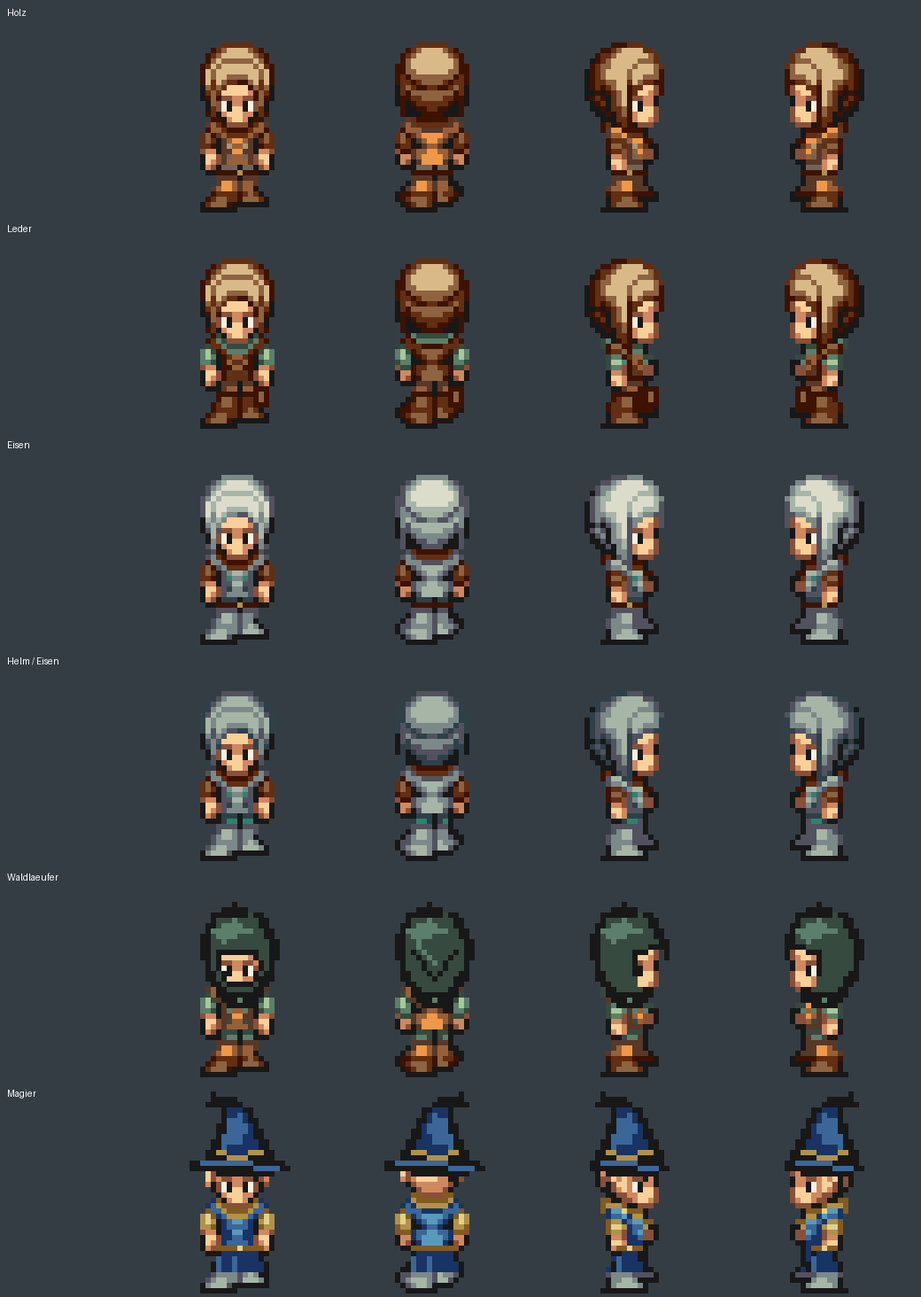
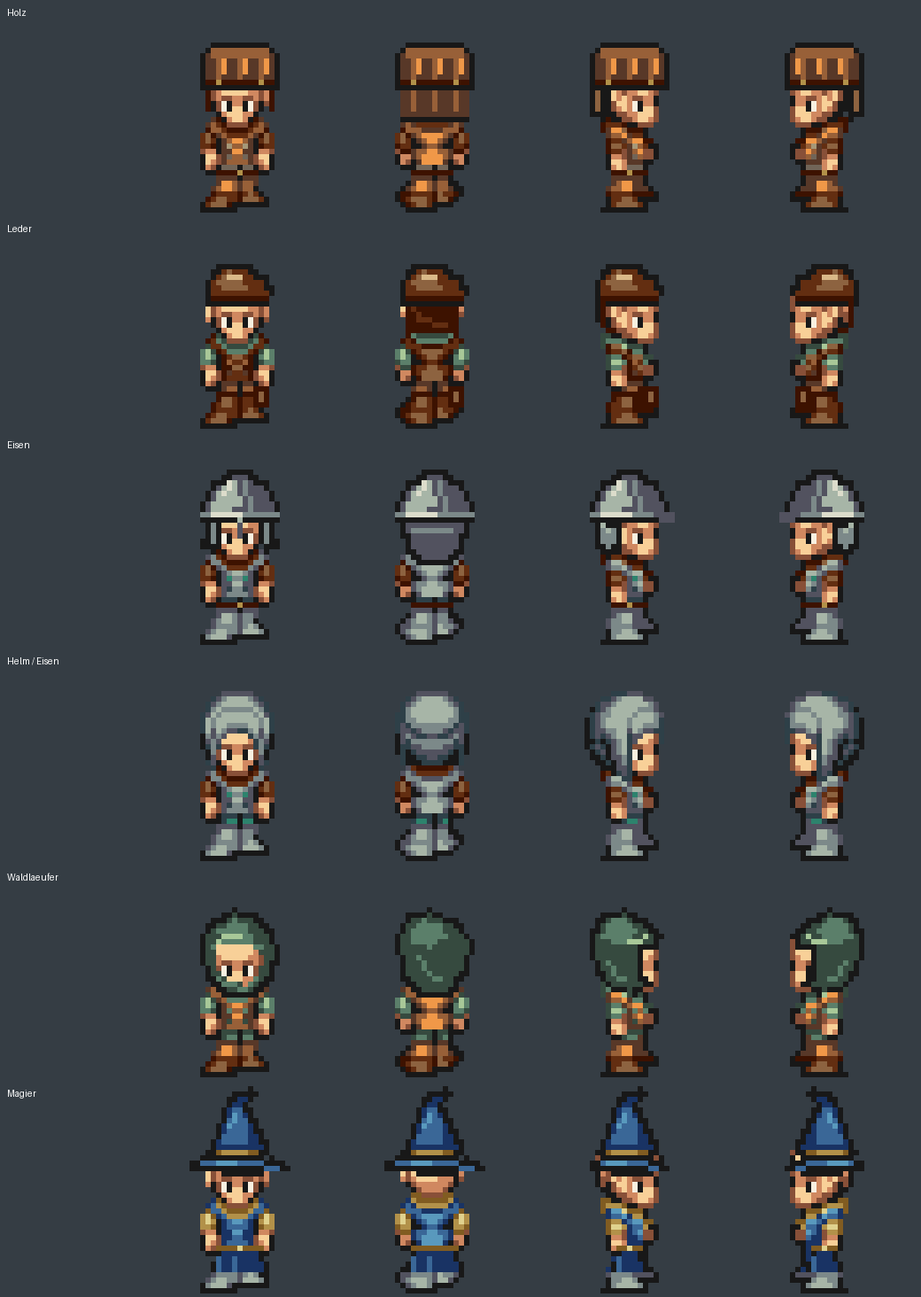
Redraw hood, wizard hat and material helmets with distinct native silhouettes

diff --git a/scripts/native_headgear.py b/scripts/native_headgear.py
@@ -1,0 +1,96 @@
+"""New native-grid headgear silhouettes. Coordinates follow each original head frame."""
+from PIL import Image,ImageDraw
+O=(24,24,24,255)
+GREEN=[(54,74,63,255),(91,127,106,255),(168,200,152,255)]
+BLUE=[(25,51,100,255),(58,103,151,255),(89,153,189,255)]
+STEEL=[(82,82,95,255),(124,137,137,255),(167,181,167,255),(220,220,203,255)]
+WOOD=[(88,56,40,255),(152,96,56,255),(240,152,72,255)]
+LEATHER=[(61,18,0,255),(99,46,17,255),(141,99,64,255),(218,185,136,255)]
+BRASS=[(129,92,33,255),(178,145,73,255),(224,210,142,255)]
+
+def headgear(name,cap,facing):
+ box=cap.getbbox();cx=round((box[0]+box[2]-1)/2);top=box[1]
+ im=Image.new('RGBA',(64,64));d=ImageDraw.Draw(im)
+ # Work in a local head basis; profiles are drawn separately then mirrored.
+ def poly(pts,color):d.polygon([(cx+x,top+y) for x,y in pts],fill=color)
+ def line(pts,color):d.line([(cx+x,top+y) for x,y in pts],fill=color)
+ def rect(x0,y0,x1,y1,color):d.rectangle((cx+x0,top+y0,cx+x1,top+y1),fill=color)
+ profile=facing in (2,3)
+ if name=='hood':
+  if profile:
+   poly([(-7,3),(-5,0),(-1,-1),(3,1),(6,4),(5,6),(2,7),(2,11),(4,13),(1,15),(-3,14),(-6,11),(-7,7)],O)
+   poly([(-6,4),(-4,1),(-1,0),(2,2),(4,4),(4,5),(1,6),(1,11),(2,13),(0,14),(-3,13),(-5,10),(-6,7)],GREEN[0])
+   poly([(-5,4),(-3,1),(-1,1),(1,3),(0,5),(-3,5)],GREEN[1])
+   line([(-4,9),(-3,11),(-1,12)],GREEN[1]);line([(0,5),(2,5),(3,4)],GREEN[2])
+  elif facing==1:
+   poly([(-7,4),(-5,0),(-1,-1),(4,1),(7,5),(6,11),(3,15),(-3,15),(-6,12)],O)
+   poly([(-6,4),(-4,1),(-1,0),(3,2),(6,5),(5,10),(2,14),(-2,14),(-5,11)],GREEN[0])
+   poly([(-4,3),(-2,1),(1,2),(2,4),(-1,6),(-4,5)],GREEN[1]);line([(-3,8),(-1,11),(1,12)],GREEN[1])
+  else:
+   poly([(-7,4),(-5,1),(-1,-1),(3,0),(6,3),(7,7),(6,12),(3,15),(-3,15),(-6,12),(-7,8)],O)
+   poly([(-6,4),(-4,2),(-1,0),(2,1),(5,4),(6,7),(5,11),(2,14),(-2,14),(-5,11),(-6,8)],GREEN[0])
+   poly([(-4,3),(-1,1),(1,2),(2,4),(-2,4)],GREEN[1])
+   # Wide face opening follows the original brow/cheeks, without a circular ring.
+   poly([(-4,6),(3,6),(4,8),(3,12),(1,13),(-2,12),(-4,10)],(0,0,0,0))
+   line([(-5,6),(-3,5),(2,5),(4,6)],GREEN[1]);line([(-4,5),(-2,4),(0,4)],GREEN[2])
+   line([(-4,12),(-2,13),(1,14),(3,12)],GREEN[1])
+ elif name=='mgHt':
+  # Tapered cloth cone; short folded tip, no horizontal black antenna.
+  poly([(-6,4),(-4,0),(-3,-4),(-1,-7),(2,-8),(3,-7),(1,-5),(3,-2),(5,3),(6,5)],O)
+  poly([(-4,3),(-3,0),(-2,-4),(0,-6),(1,-6),(0,-4),(2,-1),(4,3)],BLUE[0])
+  poly([(-3,2),(-2,-1),(-1,-4),(0,-4),(1,-1),(1,2)],BLUE[1])
+  line([(-2,-1),(-1,-3)],BLUE[2]);line([(-4,4),(3,4)],BRASS[0]);line([(-3,4),(1,4)],BRASS[1])
+  width=7 if profile else 9
+  poly([(-width,6),(-width+2,5),(-4,5),(4,5),(width-1,6),(width,7),(4,8),(-3,8),(-width,7)],O)
+  line([(-width+2,6),(-3,6),(3,6),(width-2,7)],BLUE[1]);line([(-4,6),(-1,6)],BLUE[2])
+ elif name=='irHl':
+  # Ridged steel bowl, projecting brow and separate cheek plates.
+  poly([(-7,4),(-5,0),(-2,-2),(2,-2),(5,0),(7,4),(7,7),(-7,7)],O)
+  poly([(-6,4),(-4,1),(-1,-1),(1,-1),(4,1),(6,4),(6,6),(-6,6)],STEEL[0])
+  poly([(-5,4),(-3,1),(-1,0),(0,4),(-2,5),(-5,5)],STEEL[2]);line([(-3,2),(-2,0)],STEEL[3])
+  line([(1,0),(2,5)],STEEL[1]);line([(-7,6),(7,6)],STEEL[1]);line([(-5,6),(0,6)],STEEL[3])
+  if facing==1:
+   poly([(-6,8),(6,8),(5,13),(3,15),(-3,15),(-5,13)],O)
+   poly([(-5,8),(5,8),(4,12),(2,14),(-2,14),(-4,12)],STEEL[0]);line([(-4,9),(3,9)],STEEL[1])
+  elif profile:
+   poly([(-6,7),(-2,8),(-2,12),(-4,14),(-6,12)],O)
+   poly([(-5,8),(-3,9),(-3,11),(-4,12),(-5,11)],STEEL[1]);line([(-5,8),(-4,9)],STEEL[2])
+   # Short forward brim gives a markedly different silhouette from the wood cap.
+   line([(5,6),(8,6),(8,7),(6,7)],STEEL[0])
+  else:
+   for sign in (-1,1):
+    poly([(sign*6,8),(sign*4,8),(sign*4,11),(sign*5,13),(sign*7,12)],O)
+    line([(sign*5,8),(sign*5,11)],STEEL[1])
+   line([(0,7),(0,10)],STEEL[0]);d.point((cx,top+7),fill=STEEL[2])
+ elif name=='wdHl':
+  # Flat plank crown, visible vertical grain, leather brow strap and open face.
+  poly([(-7,1),(-5,-1),(5,-1),(7,1),(7,7),(-7,7)],O)
+  rect(-6,1,6,5,WOOD[0]);rect(-5,0,5,1,WOOD[1])
+  for x in (-4,0,4):
+   line([(x,1),(x,5)],WOOD[1]);line([(x+1,2),(x+1,4)],WOOD[2])
+  line([(-6,6),(6,6)],LEATHER[0]);d.point((cx-4,top+6),fill=BRASS[1]);d.point((cx+4,top+6),fill=BRASS[1])
+  if facing==1:
+   rect(-6,8,6,12,WOOD[0]);line([(-6,13),(6,13)],O)
+   for x in (-4,0,4):line([(x,8),(x,11)],WOOD[1])
+  elif profile:
+   poly([(-7,7),(-4,7),(-4,11),(-5,13),(-7,12)],O);line([(-6,8),(-6,11)],LEATHER[2])
+  else:
+   line([(-6,8),(-6,11)],LEATHER[0]);line([(6,8),(6,11)],LEATHER[0])
+ elif name=='leHl':
+  # Short leather coif with open ears: distinct from the new wood/steel crowns.
+  poly([(-6,3),(-4,0),(2,0),(5,2),(6,5),(5,7),(-6,7)],O)
+  poly([(-5,3),(-3,1),(1,1),(4,3),(5,5),(4,6),(-5,6)],LEATHER[1])
+  poly([(-4,3),(-2,1),(0,2),(1,4),(-3,4)],LEATHER[2]);line([(-2,2),(0,2)],LEATHER[3])
+  line([(-5,6),(5,6)],LEATHER[0])
+  if facing==1:
+   rect(-5,8,4,12,LEATHER[0]);line([(-4,8),(-3,10),(2,11)],LEATHER[1])
+  elif profile:line([(-5,7),(-5,11),(-3,12)],LEATHER[0])
+ if facing==3:
+  # Mirror about the exact source head center, not the 64px cell center.
+  mirrored=Image.new('RGBA',(64,64))
+  for y in range(64):
+   for x in range(64):
+    xx=2*cx-x
+    if 0<=xx<64:mirrored.putpixel((xx,y),im.getpixel((x,y)))
+  im=mirrored
+ return im

diff --git a/scripts/build_class_sprites.py b/scripts/build_class_sprites.py
@@ -6,6 +6,7 @@ from pathlib import Path
 from PIL import Image,ImageDraw
 from collections import Counter
 import json,sys
+from native_headgear import headgear
 ROOT=Path(__file__).resolve().parents[1];A=ROOT/'app/src/main/assets';C=A/'sprites/ManaSeedCharacter'
 GREEN=[(24,24,24),(54,74,63),(91,127,106),(168,200,152)]
 CLOTHBLUE=[(24,24,24),(25,51,100),(58,103,151),(89,153,189)]
@@ -87,34 +88,8 @@ for page in ('p1','pONE2','pONE3','pBOW','pCAST'):
      if facing<2:d.line([(cx-1,waist+1),(cx-1+sway,hem-2)],fill=opaque(CLOTHBLUE[2]))
      d.line((cx-half+1,waist-1,cx+half-1,waist-1),fill=opaque(TRIM[0]))
      if facing!=1:d.point((cx,waist-1),fill=opaque(TRIM[2]))
-   # A sewn cloth hood: broad fabric folds, face cutout and neck closure.
-   # Its silhouette is independent of every hairstyle beneath it.
-   q=poses['hood'];d=ImageDraw.Draw(q);rx=max(7,(x1-x0)//2)
-   d.polygon([(cx-rx,y0+5),(cx-rx+2,y0),(cx-1,y0-2),(cx+rx-3,y0),(cx+rx,y0+5),(cx+rx-1,y0+12),(cx+3,y0+16),(cx-3,y0+16),(cx-rx+1,y0+12)],fill=opaque(GREEN[0]))
-   d.polygon([(cx-rx+2,y0+5),(cx-4,y0+1),(cx+2,y0),(cx+rx-2,y0+5),(cx+rx-2,y0+10),(cx+2,y0+14),(cx-3,y0+14),(cx-rx+2,y0+10)],fill=opaque(GREEN[1]))
-   d.polygon([(cx-5,y0+3),(cx-1,y0+1),(cx+2,y0+3),(cx-3,y0+5)],fill=opaque(GREEN[2]))
-   if facing==0:
-    opening=[(cx-4,y0+7),(cx+3,y0+7),(cx+4,y0+10),(cx+2,y0+13),(cx-2,y0+13),(cx-4,y0+10)]
-    d.polygon(opening,fill=(0,0,0,0));d.line(opening+[opening[0]],fill=opaque(GREEN[0]))
-   elif facing in (2,3):
-    signface=1 if facing==2 else -1
-    opening=[(cx+signface,y0+7),(cx+signface*(rx-1),y0+6),(cx+signface*rx,y0+12),(cx+signface*3,y0+14),(cx+signface,y0+11)]
-    d.polygon(opening,fill=(0,0,0,0));d.line([opening[-1],opening[0],opening[1]],fill=opaque(GREEN[0]))
-   else:
-    d.line([(cx-4,y0+7),(cx,y0+12),(cx+4,y0+7)],fill=opaque(GREEN[0]))
-    d.line([(cx-3,y0+6),(cx,y0+9)],fill=opaque(GREEN[2]))
-   d.polygon([(cx-3,y0+14),(cx,y0+16),(cx+3,y0+14),(cx+2,y0+17),(cx-2,y0+17)],fill=opaque(GREEN[0]))
-   d.point((cx,y0+16),fill=opaque(GREEN[2]))
-   # Compact bent crown, clustered cloth highlights and a foreshortened brim.
-   q=poses['mgHt'];d=ImageDraw.Draw(q);mirror=-1 if facing in (1,3) else 1
-   def hp(points):return [(cx+mirror*x,y0+y) for x,y in points]
-   d.polygon(hp([(-6,5),(-4,0),(-3,-4),(-6,-5),(-5,-7),(-1,-6),(2,-4),(4,0),(6,5)]),fill=opaque(CLOTHBLUE[0]))
-   d.polygon(hp([(-4,4),(-2,0),(-2,-4),(0,-4),(2,-1),(3,4)]),fill=opaque(CLOTHBLUE[1]))
-   d.polygon(hp([(-3,3),(-2,-2),(0,-3),(1,-1),(0,2)]),fill=opaque(CLOTHBLUE[2]))
-   d.line(hp([(-4,4),(0,5),(4,4)]),fill=opaque(TRIM[1]))
-   brim=7 if facing in (2,3) else 9
-   d.polygon([(cx-brim,y0+6),(cx-3,y0+5),(cx+brim-1,y0+6),(cx+brim,y0+7),(cx+3,y0+9),(cx-4,y0+8),(cx-brim,y0+7)],fill=opaque(CLOTHBLUE[0]))
-   d.line([(cx-brim+2,y0+6),(cx-2,y0+6),(cx+brim-2,y0+7)],fill=opaque(CLOTHBLUE[2]))
+   poses['hood']=headgear('hood',cap,facing)
+   poses['mgHt']=headgear('mgHt',cap,facing)
    # Short shoulder-mounted quiver sits behind the torso, away from the bow.
    q=poses['quvr'];d=ImageDraw.Draw(q)
    qx=cx+(-4 if facing==2 else 4 if facing==3 else 3);qy=y0+14

diff --git a/app/src/main/java/de/pixelabenteuer/game/MainActivity.java b/app/src/main/java/de/pixelabenteuer/game/MainActivity.java
@@ -1070,6 +1070,7 @@ public class MainActivity extends Activity {
    define("Wooden Armor","Common","Brust",0,1,1,0);
    define("Leather Armor","Uncommon","Brust",0,2,3,0);
    define("Iron Armor","Rare","Brust",0,6,8,0);
+   define("Wooden Helmet","Common","Kopf",0,1,0,0);
    define("Leather Helmet","Common","Kopf",0,1,1,0);
    define("Iron Helmet","Rare","Kopf",0,5,5,0);
    define("Wizard Hat","Super Rare","Kopf",4,2,8,0);
@@ -1103,7 +1104,7 @@ public class MainActivity extends Activity {
     while(pages.hasNext()){String page=pages.next();org.json.JSONArray cells=root.getJSONArray(page);int[] coords=new int[128];
      for(int i=0;i<64;i++){org.json.JSONArray point=cells.getJSONArray(i);coords[i*2]=point.getInt(0);coords[i*2+1]=point.getInt(1);}classGrips.put(page,coords);}
    }catch(Exception e){android.util.Log.e("PixelClasses","Missing hand attachment data",e);}
-   for(String name:new String[]{"Wooden Armor","Leather Armor","Iron Armor","Leather Helmet","Iron Helmet","Helm","Leather Boot","Iron Boot","Belt","Bag"}){
+   for(String name:new String[]{"Wooden Armor","Leather Armor","Iron Armor","Wooden Helmet","Leather Helmet","Iron Helmet","Helm","Leather Boot","Iron Boot","Belt","Bag"}){
     try(InputStream in=getAssets().open("equipment_items/"+name+".png")){itemImages.put(name,BitmapFactory.decodeStream(in));}catch(Exception e){android.util.Log.e("PixelEquipment","Missing "+name,e);}
    }
    Bitmap mageHat=itemImages.get("Magierhut");if(mageHat!=null)itemImages.put("Wizard Hat",mageHat);
@@ -1117,7 +1118,7 @@ public class MainActivity extends Activity {
    return pos>=0&&name.endsWith("]")?name.substring(0,pos):name;
   }
   void defineEquipmentVariants(){
-   String[] bases={"Wooden Sword","Iron Sword","Silver Sword","Golden Sword","Wooden Armor","Leather Armor","Iron Armor","Leather Helmet","Iron Helmet","Leather Boot","Iron Boot"};
+   String[] bases={"Wooden Sword","Iron Sword","Silver Sword","Golden Sword","Wooden Armor","Leather Armor","Iron Armor","Wooden Helmet","Leather Helmet","Iron Helmet","Leather Boot","Iron Boot"};
    String[] rarities={"Common","Uncommon","Rare","Super Rare","Legendär"};
    for(String base:bases){
     Item original=definitions.get(base);
@@ -1192,7 +1193,7 @@ public class MainActivity extends Activity {
   void ensureClassStock(){
    // Both new classes remain available in old saves without rerolling stock.
    if(smithStock.length>=2){smithStock[smithStock.length-2]="Jagdbogen";smithStock[smithStock.length-1]="Magierstab";}
-   sellerStock=new String[]{"Apple","Green Apple","Ham","Cheese","Mushroom","Healthpotion","Healthpotion large","Healpotion med","Waldlaeuferwams","Waldlaeuferkapuze","Magierrobe","Magierhut"};
+   sellerStock=new String[]{"Apple","Green Apple","Ham","Cheese","Mushroom","Healthpotion","Healthpotion large","Healpotion med","Waldlaeuferwams","Waldlaeuferkapuze","Magierrobe","Magierhut","Wooden Helmet"};
    if(shopStock.length>=2){shopStock[shopStock.length-2]="Jagdbogen";shopStock[shopStock.length-1]="Magierstab";}
   }
   String[] activeStock(){return activeMerchant==1?smithStock:activeMerchant==2?sellerStock:shopStock;}

diff --git a/scripts/build_equipment_materials.py b/scripts/build_equipment_materials.py
@@ -2,6 +2,7 @@
 from pathlib import Path
 from PIL import Image,ImageDraw
 import json
+from native_headgear import headgear
 ROOT=Path(__file__).resolve().parents[1];A=ROOT/'app/src/main/assets';C=A/'sprites/ManaSeedCharacter'
 OUTLINE=(24,24,24)
 METAL=[(82,82,95),(124,137,137),(167,181,167),(220,220,203)]
@@ -12,8 +13,8 @@ MATERIALS={
  'wdAr':[OUTLINE,*WOOD,*LEATHER[:3],(113,101,88),(166,152,120)],
  'ltAr':[OUTLINE,*LEATHER[:3],(54,74,63),(91,127,106),(168,200,152),(88,56,40),(152,96,56)],
  'irAr':[OUTLINE,*METAL[:3],*LEATHER[:3],(46,64,72),(45,131,109)]}
-HATS={'leHl':LEATHER,'irHl':METAL,'stHl':[(46,64,72),(82,82,95),(124,137,137),(167,181,167)]}
-ITEMS={'Wooden Armor':('1out','wdAr'),'Leather Armor':('1out','ltAr'),'Iron Armor':('1out','irAr'),'Leather Helmet':('5hat','leHl'),'Iron Helmet':('5hat','irHl'),'Helm':('5hat','stHl'),'Leather Boot':('8feet','leBt'),'Iron Boot':('8feet','irBt'),'Belt':('9belt','belt'),'Bag':('9belt','bag')}
+HATS={'wdHl':WOOD,'leHl':LEATHER,'irHl':METAL,'stHl':[(46,64,72),(82,82,95),(124,137,137),(167,181,167)]}
+ITEMS={'Wooden Helmet':('5hat','wdHl'),'Wooden Armor':('1out','wdAr'),'Leather Armor':('1out','ltAr'),'Iron Armor':('1out','irAr'),'Leather Helmet':('5hat','leHl'),'Iron Helmet':('5hat','irHl'),'Helm':('5hat','stHl'),'Leather Boot':('8feet','leBt'),'Iron Boot':('8feet','irBt'),'Belt':('9belt','belt'),'Bag':('9belt','bag')}
 def path(page,layer,name):return C/f'char_a_{page}'/('' if layer=='0bas' else layer)/f'char_a_{page}_{layer}_{name}_v01.png'
 def read(page,layer,name):return Image.open(path(page,layer,name)).convert('RGBA')
 def frame(im,r,c):return im.crop((c*64,r*64,c*64+64,r*64+64))
@@ -37,7 +38,8 @@ for page in ('p1','pONE2','pONE3','pBOW','pCAST'):
     sheets[name].alpha_composite(q,(col*64,row*64))
    for name,ramp in HATS.items():
     src=[(107,50,53),(169,73,76),(234,114,104),(252,176,153)]
-    q=recolor(helmet,dict(zip(src,ramp)));sheets[name].alpha_composite(q,(col*64,row*64))
+    q=headgear(name,head if head.getbbox() else frame(read('pONE2','4har','bob1'),row%4,0),row%4) if name in ('wdHl','leHl','irHl') else recolor(helmet,dict(zip(src,ramp)))
+    sheets[name].alpha_composite(q,(col*64,row*64))
    if bb:
     foot=bb[3]
     for name,ramp in [('leBt',LEATHER),('irBt',METAL)]:
@@ -65,4 +67,4 @@ icons=A/'equipment_items';icons.mkdir(exist_ok=True)
 for item,(layer,name) in ITEMS.items():
  im=frame(read('p1',layer,name),0,0);im=im.crop(im.getbbox());scale=min(2,28//max(im.size));im=im.resize((im.width*scale,im.height*scale),Image.Resampling.NEAREST)
  icon=Image.new('RGBA',(32,32));icon.alpha_composite(im,((32-im.width)//2,(32-im.height)//2));icon.save(icons/f'{item}.png')
-print('50 native equipment sheets and 10 matching icons built from original animation masks and material colors.')
+print('55 native equipment sheets and 11 matching icons built from original animation masks and material colors.')

diff --git a/scripts/verify_headgear.py b/scripts/verify_headgear.py
@@ -1,0 +1,35 @@
+"""Check the redesigned silhouettes, native palettes and per-pose head anchoring."""
+from PIL import Image
+from pathlib import Path
+from native_headgear import headgear
+ROOT=Path(__file__).resolve().parents[1];C=ROOT/'app/src/main/assets/sprites/ManaSeedCharacter'
+def read(page,layer,name):return Image.open(C/f'char_a_{page}'/layer/f'char_a_{page}_{layer}_{name}_v01.png').convert('RGBA')
+def frame(im,r,c):return im.crop((c*64,r*64,c*64+64,r*64+64))
+allowed=set()
+for n in ['fstr','pfpn','boxr']:
+ for v in range(1,2 if n=='boxr' else 6):
+  p=C/'char_a_p1/1out'/f'char_a_p1_1out_{n}_v{v:02}.png';allowed.update(q[:3] for q in Image.open(p).convert('RGBA').get_flattened_data() if q[3])
+count=0
+for page in ('p1','pONE2','pONE3','pBOW','pCAST'):
+ source='pONE2' if page in ('pBOW','pCAST') else page;heads=read(source,'4har','bob1');fallback=read('pONE2','4har','bob1')
+ sheets={n:read(page,'5hat',n) for n in ['wdHl','leHl','irHl','hood','mgHt']}
+ for r in range(8):
+  for c in range(8):
+   cap=frame(heads,r%4 if source!=page else r,0 if source!=page else c)
+   if not cap.getbbox():cap=frame(fallback,r%4,0)
+   hb=cap.getbbox();cx=round((hb[0]+hb[2]-1)/2)
+   masks={}
+   for n,im in sheets.items():
+    actual=frame(im,r,c);b=actual.getbbox();assert b and 0<b[0]<b[2]<64 and 0<b[1]<b[3]<64,(page,n,r,c,'clipped edge')
+    assert hb[1]-8<=b[1]<=hb[1]+1 and b[3]<=hb[1]+17,(page,n,r,c,'head anchor moved')
+    assert b[0]>=cx-10 and b[2]<=cx+11,(page,n,r,c,'oversized')
+    assert actual.tobytes()==headgear(n,cap,r%4).tobytes(),(page,n,r,c,'wrong head frame')
+    assert set(actual.getchannel('A').get_flattened_data())<={0,255}
+    assert {px[:3] for px in actual.get_flattened_data() if px[3]}<=allowed,(page,n,'foreign palette')
+    masks[n]=set((x,y) for y in range(64) for x in range(64) if actual.getpixel((x,y))[3]);count+=1
+   # Differentiation must be in silhouette, not just RGB recoloring.
+   assert len({frozenset(m) for m in masks.values()})==5,(page,r,c,'recolored duplicate')
+   a,b=masks['wdHl'],masks['irHl'];assert len(a&b)/len(a|b)<.85,(page,r,c,'wood/iron too similar')
+for n in ('Wooden Helmet','Leather Helmet','Iron Helmet'):
+ im=Image.open(ROOT/'app/src/main/assets/equipment_items'/f'{n}.png');assert im.size==(32,32)
+print(f'{count} rebuilt headgear frames: five unique silhouettes, exact head anchors, original colors and no frame-edge clipping.')

diff --git a/scripts/verify_equipment_materials.py b/scripts/verify_equipment_materials.py
@@ -10,13 +10,13 @@ for layer,n in [('1out','fstr'),('1out','pfpn'),('1out','boxr')]:
  for v in range(1,2 if n=='boxr' else 6):allowed.update(px[:3] for px in read('p1',layer,n,v).get_flattened_data() if px[3])
 count=0
 for p in ('p1','pONE2','pONE3','pBOW','pCAST'):
- for layer,names in [('1out',['wdAr','ltAr','irAr']),('5hat',['leHl','irHl','stHl']),('8feet',['leBt','irBt']),('9belt',['belt','bag'])]:
+ for layer,names in [('1out',['wdAr','ltAr','irAr']),('5hat',['wdHl','leHl','irHl','stHl']),('8feet',['leBt','irBt']),('9belt',['belt','bag'])]:
   for n in names:
    im=read(p,layer,n);assert im.size==(512,512)
    assert set(im.getchannel('A').get_flattened_data())<={0,255}
    colors={px[:3] for px in im.get_flattened_data() if px[3]};assert colors<=allowed,(p,n,colors-allowed)
    source='pONE2' if p in ('pBOW','pCAST') else p
-   if layer in ('1out','5hat'):
+   if layer=='1out' or (layer=='5hat' and n=='stHl'):
     original=read(source,layer,'fstr' if layer=='1out' else 'pfht')
     for r in range(8):
      for c in range(8):
@@ -36,9 +36,9 @@ for p in ('p1','pONE2','pONE3','pBOW','pCAST'):
       if box:assert b and box[1]>=b[3]-4 and box[3]<=b[3],(p,n,r,c,'boot moved away from feet')
  # Distinct equipped materials, all directions, not merely distinct inventory icons.
  for row in range(4):
-  for layer,names in [('1out',['wdAr','ltAr','irAr']),('5hat',['leHl','irHl','stHl'])]:
-   assert len({cell(read(p,layer,n),row,0).tobytes() for n in names})==3
+  for layer,names in [('1out',['wdAr','ltAr','irAr']),('5hat',['wdHl','leHl','irHl','stHl'])]:
+   assert len({cell(read(p,layer,n),row,0).tobytes() for n in names})==len(names)
 for icon in (ROOT/'app/src/main/assets/equipment_items').glob('*.png'):
  im=Image.open(icon).convert('RGBA');assert im.size==(32,32) and im.getbbox()
  assert {px[:3] for px in im.get_flattened_data() if px[3]}<=allowed
-print(f'{count} chest/helmet poses: native contours, exact equipment colors, material separation; foot layers and 10 icons passed.')
+print(f'{count} original-contour chest/helmet poses: native contours, exact equipment colors, material separation; foot layers and 11 icons passed.')

diff --git a/tests/CharacterEquipmentTest.java b/tests/CharacterEquipmentTest.java
@@ -10,7 +10,7 @@ public final class CharacterEquipmentTest {
   return ImageIO.read(p.toFile());
  }
  public static void main(String[] args)throws Exception{
-  String[][] cases={{"Wooden Armor","1out","wdAr"},{"Leather Armor","1out","ltAr"},{"Iron Armor","1out","irAr"},{"Leather Helmet","5hat","leHl"},{"Iron Helmet","5hat","irHl"},{"Helm","5hat","stHl"},{"Wizard Hat","5hat","mgHt"},{"Magierhut","5hat","mgHt"},{"Waldlaeuferkapuze","5hat","hood"},{"Magierrobe","1out","robe"},{"Waldlaeuferwams","1out","rngr"},{"Leather Boot","8feet","leBt"},{"Iron Boot","8feet","irBt"},{"Belt","9belt","belt"},{"Bag","9belt","bag"}};
+  String[][] cases={{"Wooden Helmet","5hat","wdHl"},{"Wooden Armor","1out","wdAr"},{"Leather Armor","1out","ltAr"},{"Iron Armor","1out","irAr"},{"Leather Helmet","5hat","leHl"},{"Iron Helmet","5hat","irHl"},{"Helm","5hat","stHl"},{"Wizard Hat","5hat","mgHt"},{"Magierhut","5hat","mgHt"},{"Waldlaeuferkapuze","5hat","hood"},{"Magierrobe","1out","robe"},{"Waldlaeuferwams","1out","rngr"},{"Leather Boot","8feet","leBt"},{"Iron Boot","8feet","irBt"},{"Belt","9belt","belt"},{"Bag","9belt","bag"}};
   int resolved=0;
   for(String[] item:cases)for(String suffix:new String[]{""," [Rare]"," [Legendär] {42}"}){
    String raw=item[0]+suffix,actual=item[1].equals("1out")?CharacterEquipment.outfit(raw,0):item[1].equals("5hat")?CharacterEquipment.hat(raw):item[1].equals("8feet")?CharacterEquipment.boots(raw):CharacterEquipment.belt(raw);
@@ -27,6 +27,6 @@ public final class CharacterEquipmentTest {
   check(CharacterEquipment.outfit(null,0).equals("boxr"),"empty male outfit");
   check(CharacterEquipment.outfit(null,1).equals("undi"),"empty female outfit");
   check(CharacterEquipment.hat(null).isEmpty()&&CharacterEquipment.boots(null).isEmpty()&&CharacterEquipment.belt(null).isEmpty(),"unequip left visible gear");
-  System.out.println(resolved+" actual item/rarity/page resolutions passed; all 15 items, four directions and empty slots.");
+  System.out.println(resolved+" actual item/rarity/page resolutions passed; all 16 items, four directions and empty slots.");
  }
 }

diff --git a/scripts/render_equipment_review.py b/scripts/render_equipment_review.py
@@ -6,7 +6,7 @@ def read(page,layer,name):return Image.open(C/f'char_a_{page}'/('' if layer=='0b
 def frame(im,r,c):return im.crop((c*64,r*64,c*64+64,r*64+64))
 from PIL import Image,ImageDraw
 OUT=ROOT/'art/reviews';OUT.mkdir(exist_ok=True)
-sets=[('Holz','wdAr','leHl','leBt','belt'),('Leder','ltAr','leHl','leBt','bag'),('Eisen','irAr','irHl','irBt','belt'),('Helm / Eisen','irAr','stHl','irBt',''),('Waldlaeufer','rngr','hood','leBt',''),('Magier','robe','mgHt','irBt','')]
+sets=[('Holz','wdAr','wdHl','leBt','belt'),('Leder','ltAr','leHl','leBt','bag'),('Eisen','irAr','irHl','irBt','belt'),('Helm / Eisen','irAr','stHl','irBt',''),('Waldlaeufer','rngr','hood','leBt',''),('Magier','robe','mgHt','irBt','')]
 def pose(page,row,col,outfit,hat,boots,belt):
  im=Image.new('RGBA',(64,64))
  for l,n in [('0bas','humn'),('1out',outfit),('8feet',boots),('9belt',belt),('5hat',hat)]:

diff --git a/app/src/main/java/de/pixelabenteuer/game/CharacterEquipment.java b/app/src/main/java/de/pixelabenteuer/game/CharacterEquipment.java
@@ -21,6 +21,7 @@ final class CharacterEquipment {
  }
  static String hat(String item) {
   switch(base(item)) {
+   case "Wooden Helmet":return "wdHl";
    case "Leather Helmet":return "leHl";
    case "Iron Helmet":return "irHl";
    case "Helm":return "stHl";

diff --git a/art/HEADGEAR_REDESIGN.md b/art/HEADGEAR_REDESIGN.md
@@ -1,0 +1,30 @@
+# Neue Kopfbedeckungen – 29. Oktober 2026
+
+Die vorige Umsetzung unterschied mehrere Helme nur über ihre Farben. Kapuze und Magierhut hatten außerdem zu runde beziehungsweise unpassende Konturen. Grundlage der Neuzeichnung sind die nativen 64×64-Frames, die ursprünglichen Materialpaletten und die tatsächlichen Kopfpositionen aus der Rüstungsanalyse.
+
+## Eigene Formen
+
+- **Holzhelm (`Wooden Helmet`, `wdHl`)**: flache Krone aus Holzsegmenten mit senkrechter Maserung, Lederstirnband und offener Gesichtsseite. Keine Umfärbung des Eisenhelms.
+- **Eisenhelm (`irHl`)**: gewölbte Schale mit Mittelgrat, vorstehendem Stirnrand, kurzen Wangenplatten und frontalem Nasenschutz. Der Nacken erhält einen eigenen Schutz statt einer Stofffalte.
+- **Lederhelm (`leHl`)**: kleinere, offene Lederhaube mit niedriger Krone, freier Gesichtspartie und kurzem Nackenteil. Ebenfalls neu gezeichnet, damit die bisher beim Holzset gezeigte braune Kopfbedeckung nicht unverändert bleibt.
+- **Waldläuferkapuze (`hood`)**: engere asymmetrische Stoffkontur, klare Gesichtsaussparung, kurze Kinn-/Nackenpartie und wenige zusammenhängende Stofffalten. Der breite runde Rahmen entfällt.
+- **Magierhut (`mgHt`)**: kompakter Kegel mit kurzer umgelegter Spitze, schmalerem Profilrand, wenigen blauen Lichtflächen und gedämpftem Messingband. Die lange seitliche schwarze Spitze entfällt.
+
+Einen eigenständigen Holzhelm gab es vorher nicht. Die Vergleichstafel kombinierte Holzrüstung mit Lederhelm. Daher ist der neue Holzhelm ein eigener ausrüstbarer Kopfgegenstand; vorhandene Lederhelme bleiben Lederhelme. Maela führt den Holzhelm auch in bestehenden Spielständen. Er unterstützt dieselben Seltenheits-/Instanzsuffixe wie die anderen Ausrüstungsgegenstände.
+
+## Pixelmaß, Farben und Animation
+
+Alle Formen werden direkt in nativen Pixeln gezeichnet: eine Pixelreihe für Kanten, kleine klare Farbcluster statt weicher Übergänge, binäres Alpha und ausschließlich originale Charakterfarben. Holz, Stahl, Leder und Stoff behalten getrennte Schatten-/Mittel-/Lichttöne. Körper, Rüstungen und Waffen werden nicht skaliert, verschoben oder umgefärbt.
+
+`native_headgear.py` ist die gemeinsame Quelle für beide bestehenden Spritegeneratoren. Jede Kopfbedeckung folgt der tatsächlichen Kopfposition des jeweiligen Frames, einschließlich der verschobenen Köpfe beim Gehen, Schlagen, Bogen-/Zauberangriff und bei Reaktionsposen. Vorder-, Rück- und Profilansichten haben eigene sichtbare Flächen. Links wird um den jeweiligen nativen Kopfmittelpunkt gespiegelt, nicht um die Zellmitte.
+
+25 neu gezeichnete Blätter = fünf Kopfbedeckungen × fünf Animationsseiten. Dazu die passenden Inventarsymbole. Wizard Hat bleibt derselbe sichtbare Gegenstand wie Magierhut.
+
+## Prüfung
+
+- `verify_headgear.py`: 1.600 neu gezeichnete Kopfbedeckungsframes; exakte Kopfanbindung, native Farben, binäres Alpha und keine angeschnittenen Zellränder.
+- Fünf tatsächlich unterschiedliche Alphasilhouetten je Pose. Holz-/Eisenkonturen müssen deutlich voneinander abweichen; verschiedene RGB-Werte allein bestehen die Prüfung nicht.
+- Bestehende Klassen-/Materialprüfungen bleiben aktiv. Originalkonturgleichheit wird weiterhin für die nicht neu entworfenen Brustmaterialien und den unveränderten Standardhelm geprüft.
+- `CharacterEquipmentTest`: 16 Gegenstände, drei Namens-/Seltenheitsvarianten, fünf Animationsseiten, vier Richtungen und leere Slots.
+- [Aktuelle Vergleichstafel](reviews/all-equipment-comparison.png) und [Bewegungsübersicht](reviews/all-equipment-animation.gif) sind Kompositionen der tatsächlichen Produktionslayer, keine Geräteaufnahmen.
+- Android-Build über GitHub Actions; neuer Gerätetest und FPS-Messung weiterhin offen.

diff --git a/art/ALL_EQUIPMENT_REVIEW.md b/art/ALL_EQUIPMENT_REVIEW.md
@@ -2,6 +2,8 @@
 
 Grundlage: [Rüstungsanalyse](ARMOR_STYLE_ANALYSIS.md), 66 ursprüngliche Outfit-/Hutblätter, alle definierten tragbaren Rüstungsgegenstände und die tatsächlichen Renderpfade in Charaktererstellung, Innenräumen und Außenwelt.
 
+Die anschließende vollständige Neuzeichnung der Kopfbedeckungen ist in [HEADGEAR_REDESIGN.md](HEADGEAR_REDESIGN.md) dokumentiert. Die dort beschriebenen eigenen Silhouetten ersetzen die anfänglichen Helm-Umfärbungen.
+
 ## Befunde und Umsetzung
 
 | Gegenstand | Bisheriger Befund | Überarbeitung |
